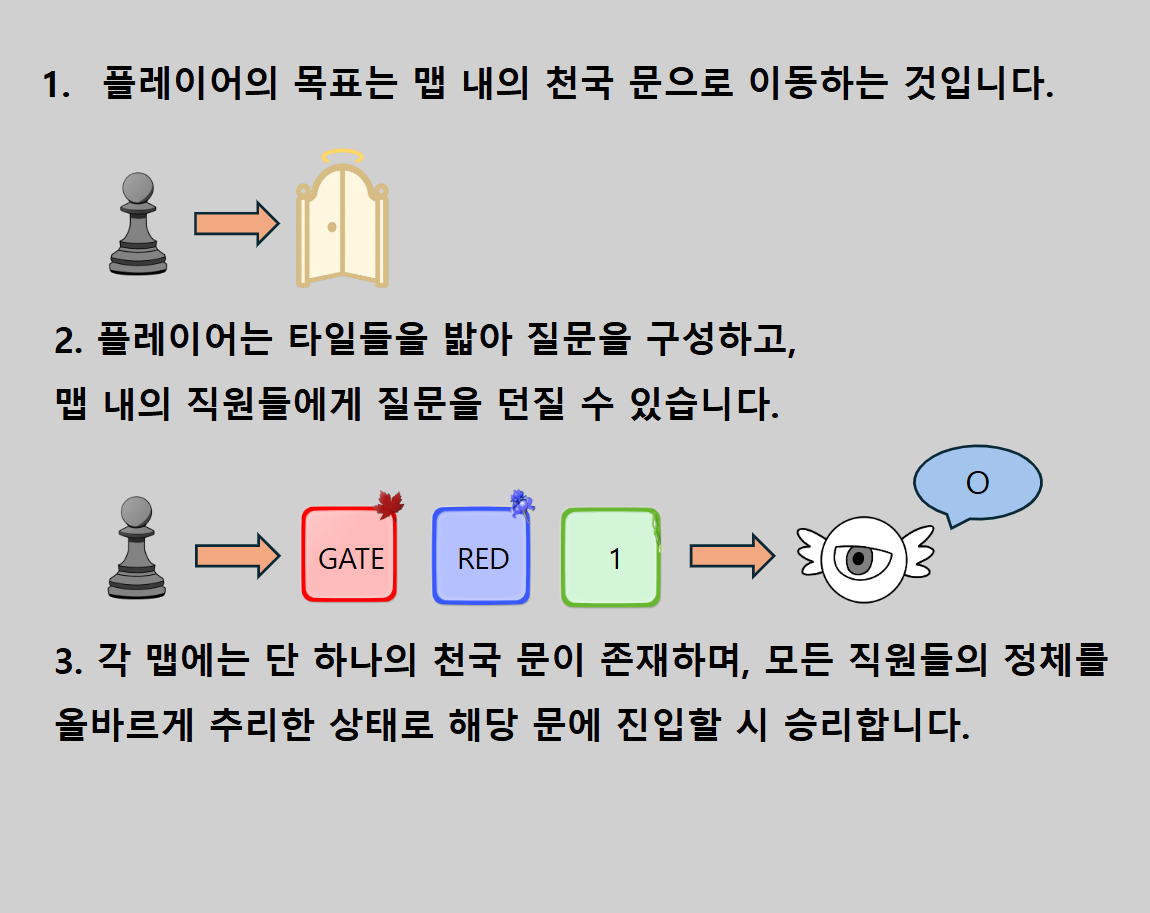
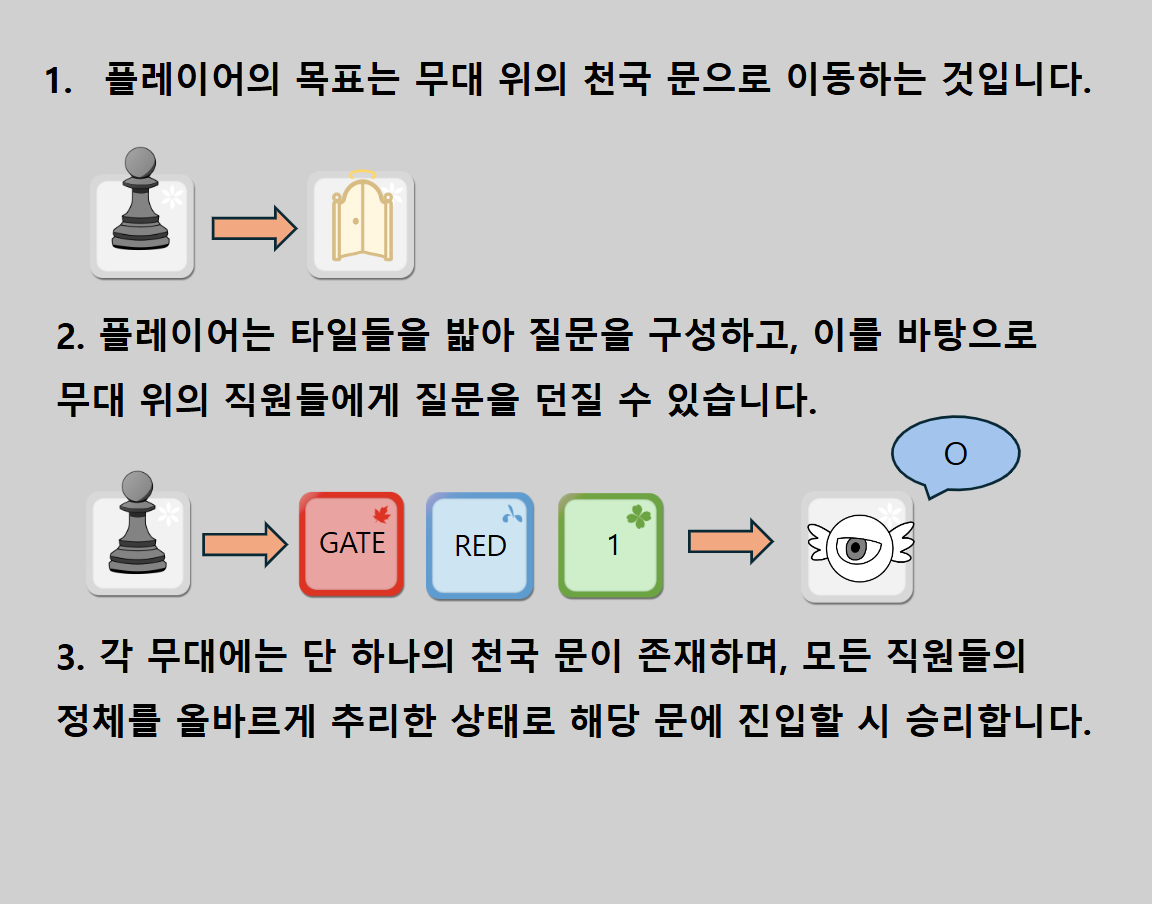
chore: 가이드북 이미지 교체

diff --git a/Assets/Scripts/MyScripts/Guidebook.cs b/Assets/Scripts/MyScripts/Guidebook.cs
@@ -15,16 +15,16 @@ public class Guidebook : MonoBehaviour
     [Header("설명 이미지")]
     [SerializeField] Sprite[] basicSprites; //기본 규칙
     [SerializeField] Sprite[] moveSprites; //이동 방식
-    [SerializeField] Sprite[] questionSprites; //질문 구성
+    [SerializeField] Sprite[] makeQuestionSprites; //질문 구성
+    [SerializeField] Sprite[] askQuestionSprites; //질문 실행
     [SerializeField] Sprite[] resultSprites; //결과 판정
     [SerializeField] Sprite[] functionSprites; //편의 기능
 
     public enum GuideCategory
     {
-        Basic, Move, Question, Result, Function
+        Basic, Move, MakeQuestion, AskQuestion, Result, Function
     }
 
-    private GuideCategory category;
     private Sprite[] spritesToDisplay;
     
     void Awake()
@@ -41,12 +41,11 @@ public class Guidebook : MonoBehaviour
     {
         spritesToDisplay = new Sprite[]
         {
-            basicSprites[0], moveSprites[0], questionSprites[0], resultSprites[0], functionSprites[0],
+            basicSprites[0], moveSprites[0], makeQuestionSprites[0], askQuestionSprites[0], resultSprites[0], functionSprites[0],
         };
 
         if (GameManager.instance.maxStage >= 5) spritesToDisplay[(int)GuideCategory.Function] = functionSprites[1];
-        if (GameManager.instance.maxStage >= 8) spritesToDisplay[(int)GuideCategory.Question] = questionSprites[1];
-        if (GameManager.instance.maxStage >= TDStage.Ch1StageCount + 1) spritesToDisplay[(int)GuideCategory.Move] = moveSprites[1];
+        if (GameManager.instance.maxStage >= 8) spritesToDisplay[(int)GuideCategory.MakeQuestion] = makeQuestionSprites[1];
     }
 
     public void OnGuideCategoryClicked(int num)
